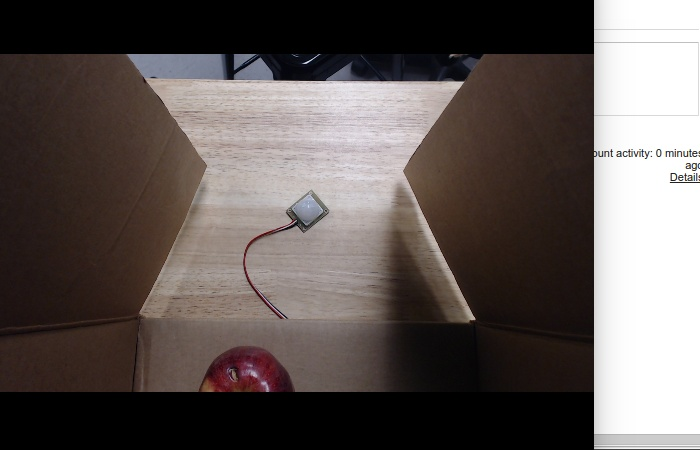
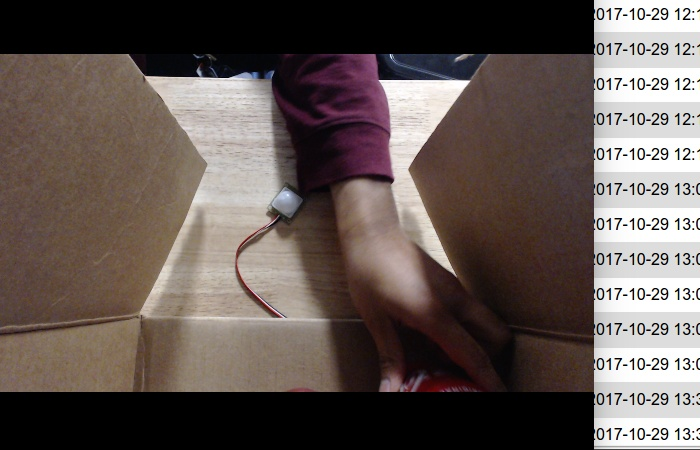
can add anything to database now (not just apples), and adjusted expiration dates

diff --git a/label_image.py b/label_image.py
@@ -84,12 +84,18 @@ def run_graph(image_data, labels, input_layer_name, output_layer_name,
     # Sort to show labels in order of confidence
     top_k = predictions.argsort()[-num_top_predictions:][::-1]
     print('\n-----------------------------------------------------------')
+    max_id = 0
     for node_id in top_k:
       human_string = labels[node_id]
       score = predictions[node_id]
       print('%s (score = %.5f)' % (human_string, score))
+      if score > 0.75: max_id = node_id
 
-    return 0
+    threshold = 0.75
+    if predictions[max_id] > threshold:
+      return labels[max_id]
+    else:
+      return "cannot be sure"
 
 def label_image(image_file, labels_file='output_labels.txt',  
                 input_layer='DecodeJpeg/contents:0', output_layer='final_result:0', num_top_predictions=5):
@@ -97,7 +103,7 @@ def label_image(image_file, labels_file='output_labels.txt',
   labels = load_labels(labels_file)
   image_data = load_image(image_file)
 
-  run_graph(image_data, labels, input_layer, output_layer,
+  return run_graph(image_data, labels, input_layer, output_layer,
             num_top_predictions)
 
 if __name__ == '__main__':

diff --git a/watch_fridge.py b/watch_fridge.py
@@ -19,6 +19,7 @@ fridge = db.fridge
 def labeller(img):
 	cv2.imwrite('temp.jpg', img)
 	label = label_image('temp.jpg')
+	return label
 
 
 def differencer(img):
@@ -34,13 +35,20 @@ def addItem(item):
 	}
 	if item == 'apple':
 		entry['item'] = item
-	elif item == 'soda-can':
+		delta = timedelta(days=7)
+	elif item == 'soda can':
 		entry['item'] = item
-	elif item == 'water-bottle':
+		delta = timedelta(days=120)
+	elif item == 'water bottle':
 		entry['item'] = item
+		delta = timedelta(days=6000)
 	else:
 		print("Error: I don't know")
+		return
 
+	entry['expDate'] = now + delta
+
+	print("Adding item", item)
 	fridge.insert_one(entry)
 
 def watch(rate = 30):
@@ -52,13 +60,13 @@ def watch(rate = 30):
 	while(True):
 		img = takePicture()
 		if i % 15 == 0:
-			labeller(img)
+			label = labeller(img)
 		differencer(img)
 		#cv2.imshow('Raw Image', img)
 		movement, old_gray, p0 = direction(old_gray, img, p0, mask, color)
 		if movement:
 			print("MOVED")
-			addItem("apple")
+			addItem(label)
 		i += 1
 		if cv2.waitKey(25) & 0xFF == ord('q'):
 			break
